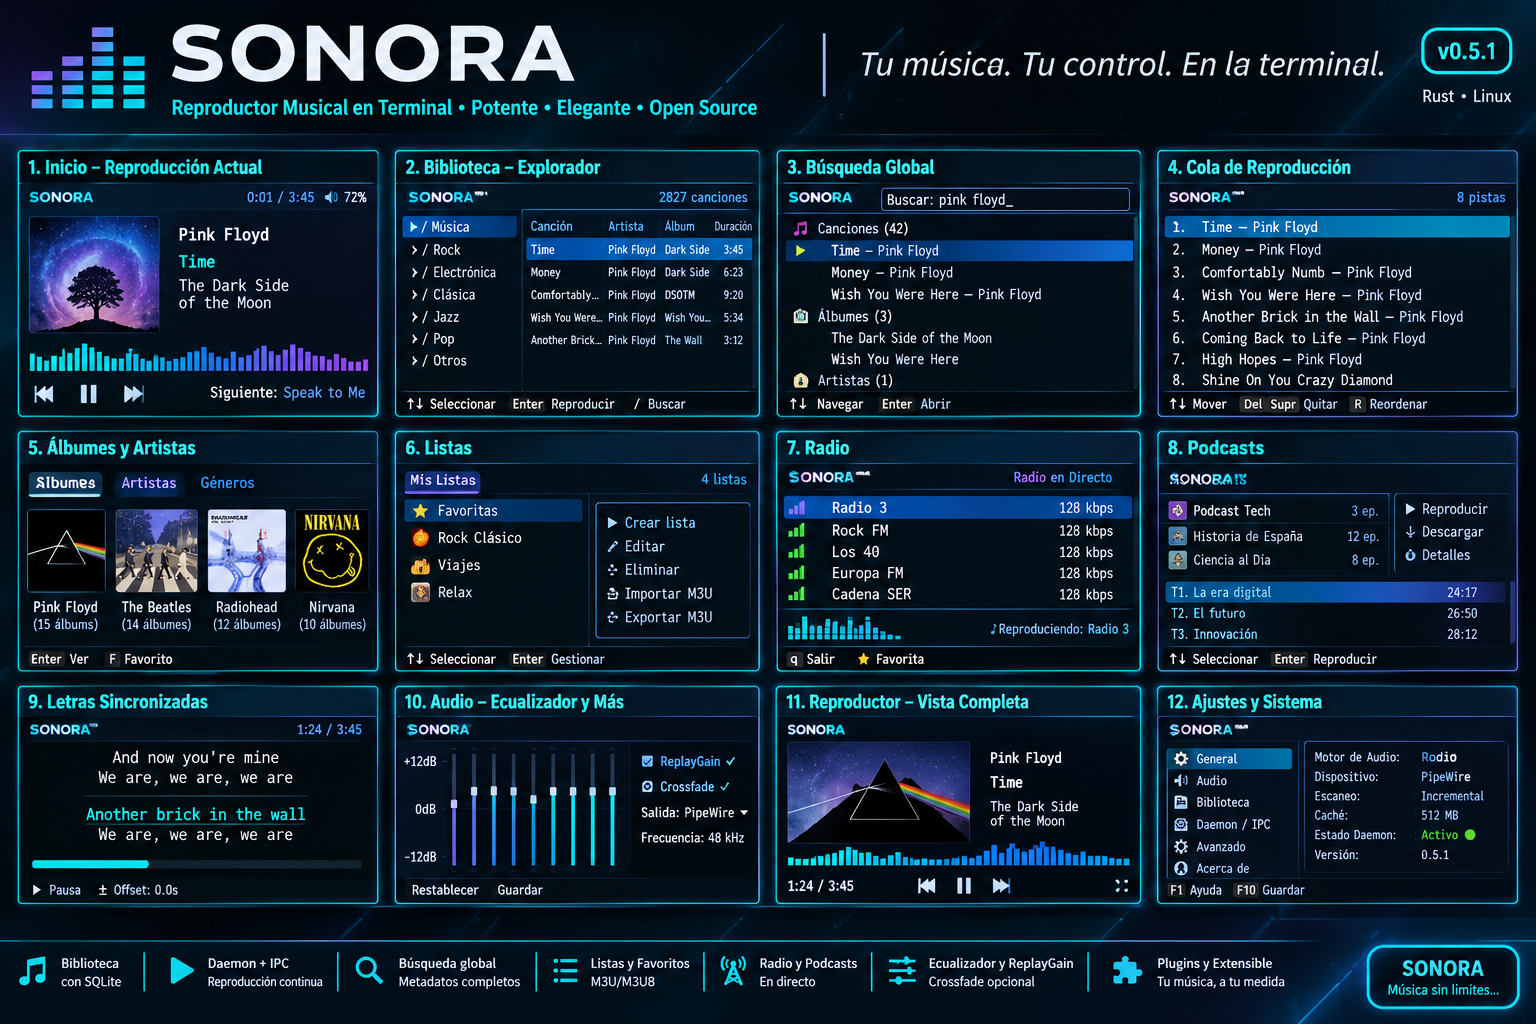
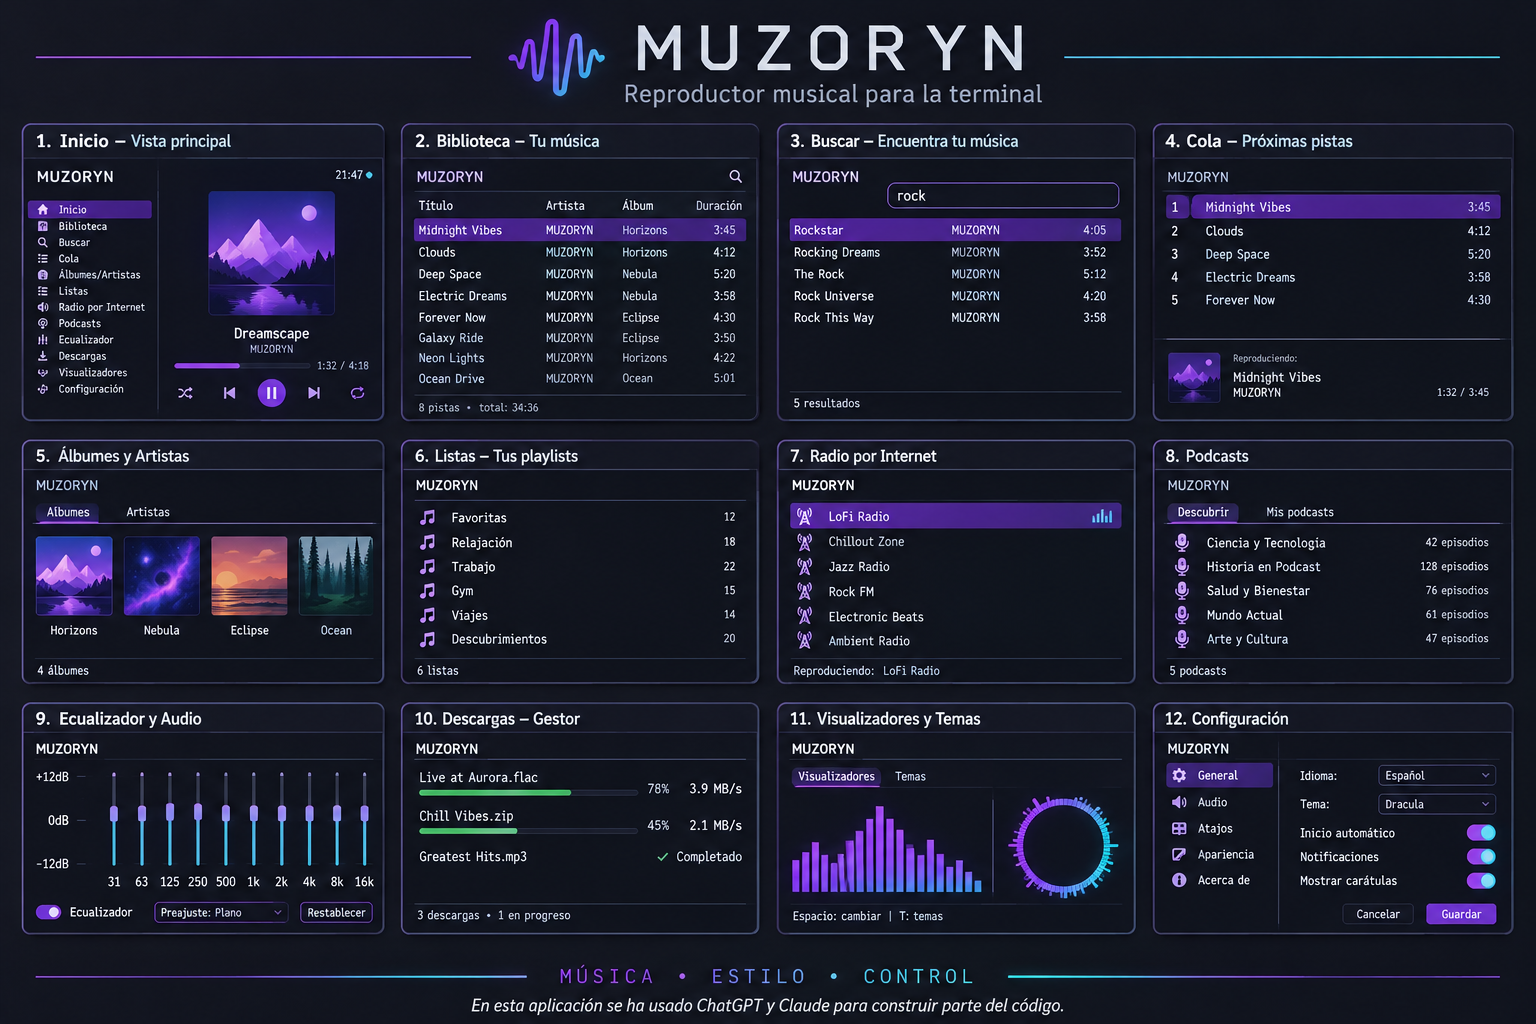
docs: update MUZORYN interface image

diff --git a/README.md b/README.md
@@ -35,7 +35,7 @@ MUZORYN es un reproductor de música que **vive dentro de la terminal** (la vent
 <div align="center">
 <img src="docs/interfaz.png" alt="Diseño de referencia de la interfaz con las 12 vistas" width="100%">
 <br>
-<sub>🎨 <b>Imagen de diseño de referencia</b> de las 12 vistas. Fue creada con el nombre antiguo del proyecto («Sonora»); la aplicación actual se llama <b>MUZORYN</b> y respeta esta distribución.</sub>
+<sub>🎨 <b>Imagen conceptual de las 12 vistas de MUZORYN.</b> Representa la organización visual y las funcionalidades de la aplicación.</sub>
 </div>
 
 ### ✨ Lo que puedes hacer
